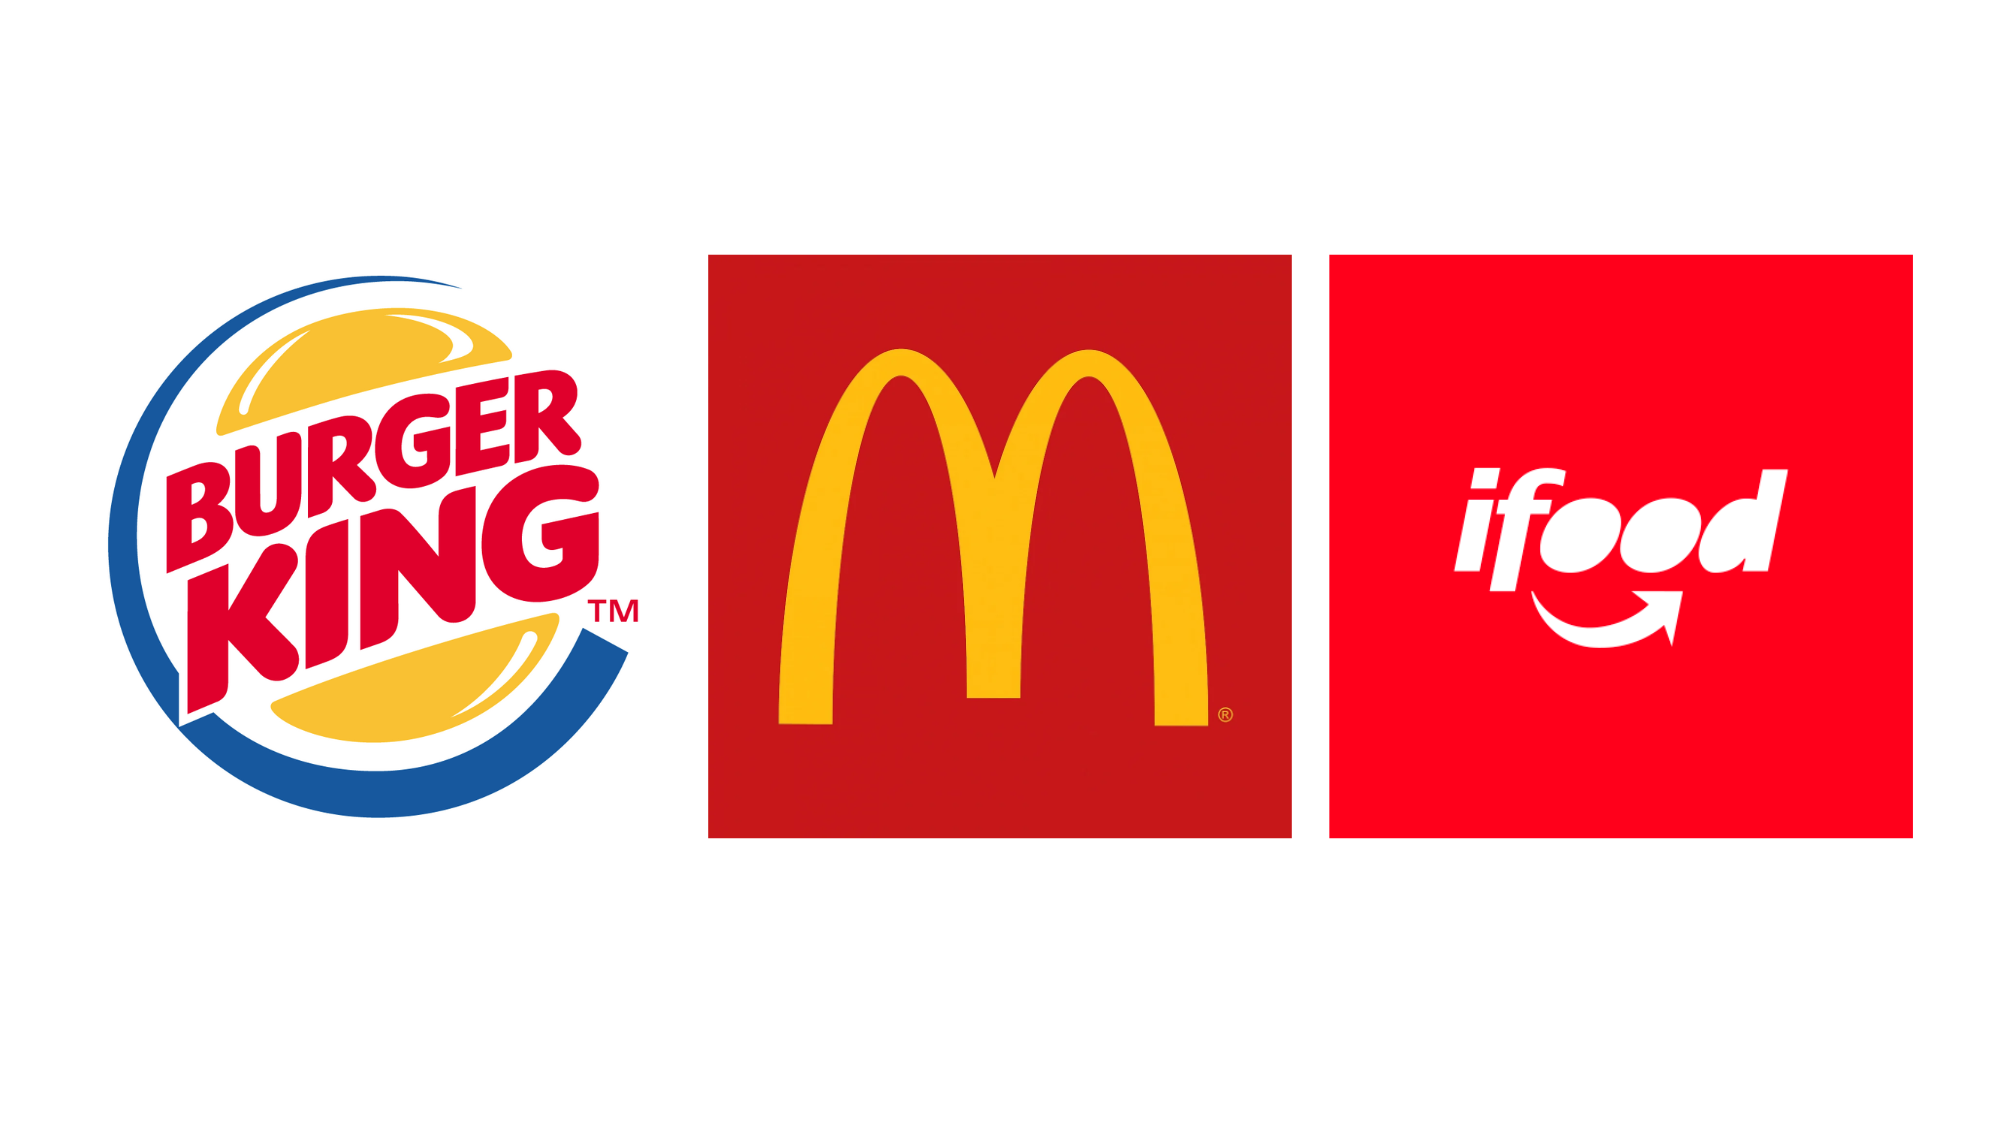
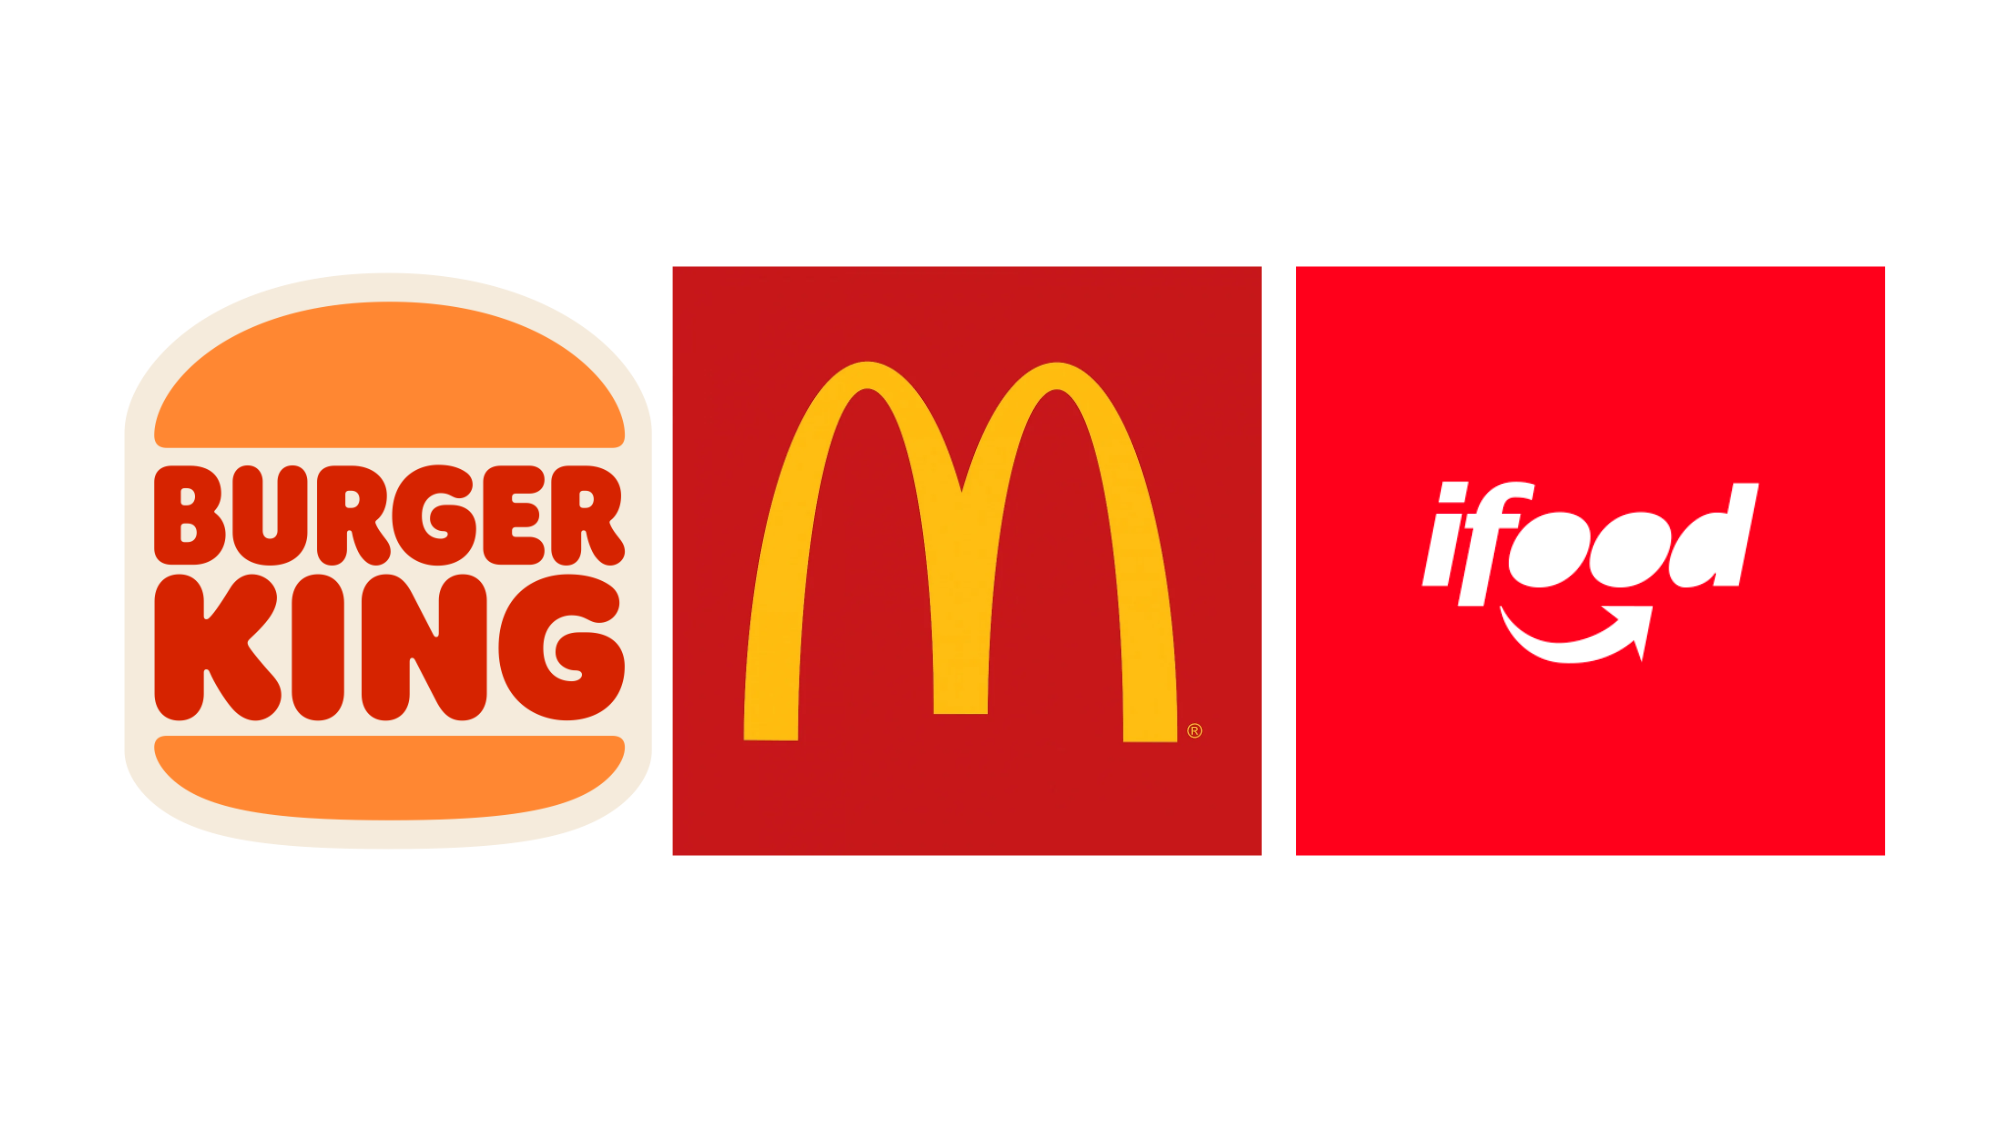
deploy - add segundo texto sobre quando mudar de IDV

Changed region(s): [[0.031, 0.2184, 0.961, 0.7799], [0.713, 0.4055, 0.899, 0.5927]]

diff --git a/2024/02/20/quando-mudar-IDV.html b/2024/02/20/quando-mudar-IDV.html
@@ -1,0 +1,186 @@
+<!DOCTYPE html>
+
+<html lang="pt">
+
+<head>
+    <meta charset="UTF-8">
+<meta name="viewport" content="width=device-width, initial-scale=1.0">
+<link rel="stylesheet" href="/assets/css/styles.css">
+
+<link href="https://cdn.jsdelivr.net/npm/bootstrap@5.3.2/dist/css/bootstrap.min.css" rel="stylesheet"
+    integrity="sha384-T3c6CoIi6uLrA9TneNEoa7RxnatzjcDSCmG1MXxSR1GAsXEV/Dwwykc2MPK8M2HN" crossorigin="anonymous">
+
+<script src="https://kit.fontawesome.com/817e28a61b.js" crossorigin="anonymous"></script>
+
+<script src="https://cdn.jsdelivr.net/npm/bootstrap@5.3.2/dist/js/bootstrap.bundle.min.js"
+    integrity="sha384-C6RzsynM9kWDrMNeT87bh95OGNyZPhcTNXj1NW7RuBCsyN/o0jlpcV8Qyq46cDfL"
+    crossorigin="anonymous"></script>
+
+<script type="module" src="/assets/js/main.js"></script>
+
+<title>Quando mudar a Identidade Visual da minha marca?</title>
+</head>
+
+<body>
+    <nav class="topbar" id="mainNav">
+    <div class="content m-default">
+        <a href="javascript:void(0);" class="item drawer" id="main-nav-drawer">
+            <i id="drawerIcon" class="fa fa-bars"></i>
+        </a>
+
+        <div class="leading">
+            
+            <a class="item route " href="/blog.html"
+               >Blog</a>
+            
+            <a class="item route " href="/contact.html"
+               >Contato</a>
+            
+            <a class="item route " href="/about.html"
+               >Sobre</a>
+            
+            <a class="item route " href="/projects.html"
+               >Projetos</a>
+            
+        </div>
+
+
+
+        <div class="brand">
+            <a href="/">
+                <svg  class="brand-img">
+                    <use xlink:href="/assets/images/common/brand.svg#svg-brand"></use>
+                </svg>
+            </a>
+        </div>
+
+        
+
+        <div class="trailing dark">
+            <div class="social-section">
+    
+    <a class="rounded-button icon filled" href="mailto:contato@isaquemizael.com.br"
+       target="_blank" >
+        <i class="fa-solid fa-envelope"></i>
+    </a>
+    
+    <a class="rounded-button icon filled" href="https://www.linkedin.com/in/isaquemizael"
+       target="_blank" >
+        <i class="fa-brands fa-linkedin-in"></i>
+    </a>
+    
+    <a class="rounded-button icon filled" href="https://www.behance.net/isaquemizael"
+       target="_blank" >
+        <i class="fa-brands fa-behance"></i>
+    </a>
+    
+    <a class="rounded-button icon filled" href="https://www.instagram.com/isaquemizael_"
+       target="_blank" >
+        <i class="fa-brands fa-instagram"></i>
+    </a>
+    
+</div>
+        </div>
+    </div>
+</nav>
+    <article class="post">
+
+    <header>
+        <div class="mininav">
+            <a href="/">Home</a> > <a href="/blog.html">Blog</a> >
+        </div>
+
+        <h1>Quando mudar a Identidade Visual da minha marca?</h1>
+
+        
+        <figure>
+            <img src="/assets/images/blog/2024-02-20.png" alt="Rebranding da empresa Burger King" />
+            <figcaption>Rebranding da empresa Burger King</figcaption>
+        </figure>
+        
+
+        <div class="metadata">
+            
+            <span class="author">Isaque Mizael</span> -
+            
+            <span>Publicado em 20 Feb 24</span>
+        </div>
+    </header>
+
+    <section>
+    <p>Uma Identidade Visual sólida é essencial para o sucesso de qualquer marca. No entanto, há momentos em que uma revisão ou até mesmo uma mudança completa se faz necessária para garantir que sua marca continue relevante e atraente para seu público-alvo. Mas como saber qual é o momento certo para fazer essa mudança? Aqui estão algumas considerações importantes:</p>
+
+<h2 id="mudança-nos-objetivos-e-valores-da-marca">Mudança nos objetivos e valores da marca</h2>
+
+<p>Se os objetivos ou valores da sua marca evoluíram significativamente ao longo do tempo, pode ser necessário refletir essa mudança na Identidade Visual. Por exemplo, se sua empresa passar por uma reformulação para se tornar mais sustentável, é importante que sua Identidade Visual transmita essa mensagem de forma clara e eficaz.</p>
+
+<h2 id="falta-de-relevância-ou-desatualização">Falta de relevância ou desatualização</h2>
+
+<p>As tendências de design estão sempre evoluindo, e o que era moderno há alguns anos pode parecer desatualizado agora. Se a Identidade Visual da sua marca parece ultrapassada em comparação com seus concorrentes ou simplesmente não ressoa mais com o público-alvo, pode ser hora de considerar uma atualização.</p>
+
+<h2 id="expansão-ou-mudança-de-público-alvo">Expansão ou mudança de público-alvo</h2>
+
+<p>Se sua marca estiver se expandindo para novos mercados ou direcionando-se a um público diferente, sua Identidade Visual pode precisar ser ajustada para atrair e se comunicar efetivamente com esse novo público.</p>
+
+<h2 id="feedback-negativo-consistente">Feedback negativo consistente</h2>
+
+<p>Se você estiver recebendo feedback negativo consistente sobre sua Identidade Visual, isso pode indicar que é hora de fazer uma mudança. Isso pode incluir comentários sobre a falta de profissionalismo, confusão sobre a mensagem da marca ou simplesmente uma falta de apego emocional à Identidade Visual atual.</p>
+
+<h2 id="mudança-de-liderança-ou-direção-criativa">Mudança de liderança ou direção criativa</h2>
+
+<p>Quando há uma mudança significativa na liderança ou na equipe criativa da empresa, isso pode levar a uma revisão da Identidade Visual para refletir a nova visão e direção da marca.</p>
+
+<p><strong>E o principal…</strong></p>
+
+<h2 id="quando-sua-identidade-visual-foi-criada-de-forma-totalmente-amadora">Quando sua Identidade Visual foi criada de forma totalmente amadora</h2>
+
+<p>É muito comum que, ao iniciarem um novo negócio, as pessoas tendam a evitar gastos e uma logo é coisa coisa que qualquer um pode criar, certo? Bem… errado! Quando uma marca é criada de forma totalmente amadora, sem levar em consideração princípios de alinhamento, proximidade, contraste, repetição, tipografia, psicologia das cores e das formas, etc, isso vai refletir na aparência e em como sua marca se apresenta no mercado. Principalmente, quando colocada ao lado de marcas que possuem um posicionamento melhor que a sua. A diferença se torna gritante aos olhos. Sem mencionar que uma marca criada apenas para ser bonita pode acabar não refletindo a imagem que você gostaria que sua empresa passasse e, ao invés de atrair, afugentar potenciais clientes. Vale o alerta também de que alguns profissionais que cobram valores mínimos para criar um logo ou “mini projetos de Identidade Visual” para sua marca, às vezes se valem de templates prontos que não levam em consideração a mensagem e o posicionamento da sua empresa e que podem, também, ser protegidos por direitos autorais.</p>
+
+<p><img src="/assets/images/blog/2024-02-20-2.png" alt="" /></p>
+
+<p>Encare o redesign da Identidade Visual da sua marca como um <strong>investimento único e seguro</strong>, tendo em vista que uma marca bem construída é capaz de atravessar décadas sem precisar de muita alteração e você só vai precisar pagar uma vez por isso. 
+Mudar a Identidade Visual de uma marca é uma decisão importante que deve ser cuidadosamente considerada. Embora seja importante manter a consistência e o reconhecimento da marca (quando bem construída), também é crucial estar aberto a mudanças que possam impulsionar o crescimento e a sua relevância no mercado que está sempre em constante evolução. Ao avaliar se é hora de mudar sua Identidade Visual, leve em consideração esses fatores e esteja preparado para buscar a orientação de um bom profissional de design.</p>
+
+<div class="card-e">
+    <span class="title">Gostou?</span>
+    <span class="description">
+        E que tal ter o <span class="bold">seu próprio projeto</span> de Identidade Visual feito sob medida para sua marca?
+    </span>
+    <a href="/contact.html" class="rounded-button outlined dark">Entre em contato!</a>
+</div>
+
+    </section>
+</article>
+
+    <footer class="grey text">
+    <div class="social-section">
+    
+    <a class="rounded-button icon filled" href="mailto:contato@isaquemizael.com.br"
+       target="_blank" >
+        <i class="fa-solid fa-envelope"></i>
+    </a>
+    
+    <a class="rounded-button icon filled" href="https://www.linkedin.com/in/isaquemizael"
+       target="_blank" >
+        <i class="fa-brands fa-linkedin-in"></i>
+    </a>
+    
+    <a class="rounded-button icon filled" href="https://www.behance.net/isaquemizael"
+       target="_blank" >
+        <i class="fa-brands fa-behance"></i>
+    </a>
+    
+    <a class="rounded-button icon filled" href="https://www.instagram.com/isaquemizael_"
+       target="_blank" >
+        <i class="fa-brands fa-instagram"></i>
+    </a>
+    
+</div>
+
+    
+    <span>contato@isaquemizael.com.br</span>
+    <span>Isaque Mizael &copy;</span>
+</footer>
+</body>
+
+</html>

diff --git a/2024/02/18/o-que-e-identidade-visual.html b/2024/02/18/o-que-e-identidade-visual.html
@@ -152,14 +152,14 @@
 
 <p>Investir em um projeto de Identidade Visual é fundamental porque é a primeira impressão que você oferece ao mundo sobre sua marca, e uma identidade bem desenvolvida comunica instantaneamente sua mensagem, valores e personalidade.</p>
 
-<p>Além disso, é um <strong>investimento único e duradouro</strong>. Uma vez estabelecida, sua identidade visual acompanhará sua marca por anos, criando consistência e reconhecimento. Isso gera confiança e lealdade entre seus clientes, além de garantir uma presença marcante em um mercado cada vez mais competitivo, comprovadamente <strong>aumentando o faturamento</strong> de sua empresa.</p>
+<p>Além disso, é um <strong>investimento único e duradouro</strong>. Uma vez estabelecida, sua Identidade Visual acompanhará sua marca por anos, criando consistência e reconhecimento. Isso gera confiança e lealdade entre seus clientes, além de garantir uma presença marcante em um mercado cada vez mais competitivo, comprovadamente <strong>aumentando o faturamento</strong> de sua empresa.</p>
 
 <p>Portanto, ao investir em um projeto de Identidade Visual, você está investindo no crescimento e sucesso contínuo de sua marca, garantindo uma presença memorável e impactante no mercado.</p>
 
 <div class="card-e">
     <span class="title">Gostou?</span>
     <span class="description">
-        E que tal ter o <span class="bold">seu próprio projeto</span> de Identidade Visual feito 'sob medida' para sua marca?
+        E que tal ter o <span class="bold">seu próprio projeto</span> de Identidade Visual feito sob medida para sua marca?
     </span>
     <a href="/contact.html" class="rounded-button outlined dark">Entre em contato!</a>
 </div>

diff --git a/index.html b/index.html
@@ -280,6 +280,20 @@
             <div class="textual-holder">
                 <div class="textual light m-default">
                     <div class="title">
+                        Quando mudar a Identidade Visual da minha marca?
+                    </div>
+
+                    <a href="/2024/02/20/quando-mudar-IDV.html" class="rounded-button filled">Leia</a>
+                </div>
+            </div>
+
+            <img class="w-100" src="/assets/images/blog/2024-02-20.png" alt="Rebranding da empresa Burger King">
+        </div>
+        
+        <div id="post-slide2" class="carousel-item ">
+            <div class="textual-holder">
+                <div class="textual light m-default">
+                    <div class="title">
                         O que é Identidade Visual?
                     </div>
 

diff --git a/blog.html b/blog.html
@@ -88,6 +88,18 @@
 
   
   <div id="post1" class="blog-post">
+    <a href="/2024/02/20/quando-mudar-IDV.html" class="textual-holder">
+      <div class="textual light">
+        <div class="title">
+          Quando mudar a Identidade Visual da minha marca?
+        </div>
+      </div>
+    </a>
+
+    <img class="w-100" src="/assets/images/blog/2024-02-20.png" alt="Rebranding da empresa Burger King">
+  </div>
+  
+  <div id="post2" class="blog-post">
     <a href="/2024/02/18/o-que-e-identidade-visual.html" class="textual-holder">
       <div class="textual light">
         <div class="title">

diff --git a/about.html b/about.html
@@ -151,7 +151,7 @@
         <div class="card-e">
     <span class="title">Gostou?</span>
     <span class="description">
-        E que tal ter o <span class="bold">seu próprio projeto</span> de Identidade Visual feito 'sob medida' para sua marca?
+        E que tal ter o <span class="bold">seu próprio projeto</span> de Identidade Visual feito sob medida para sua marca?
     </span>
     <a href="/contact.html" class="rounded-button outlined dark">Entre em contato!</a>
 </div>
